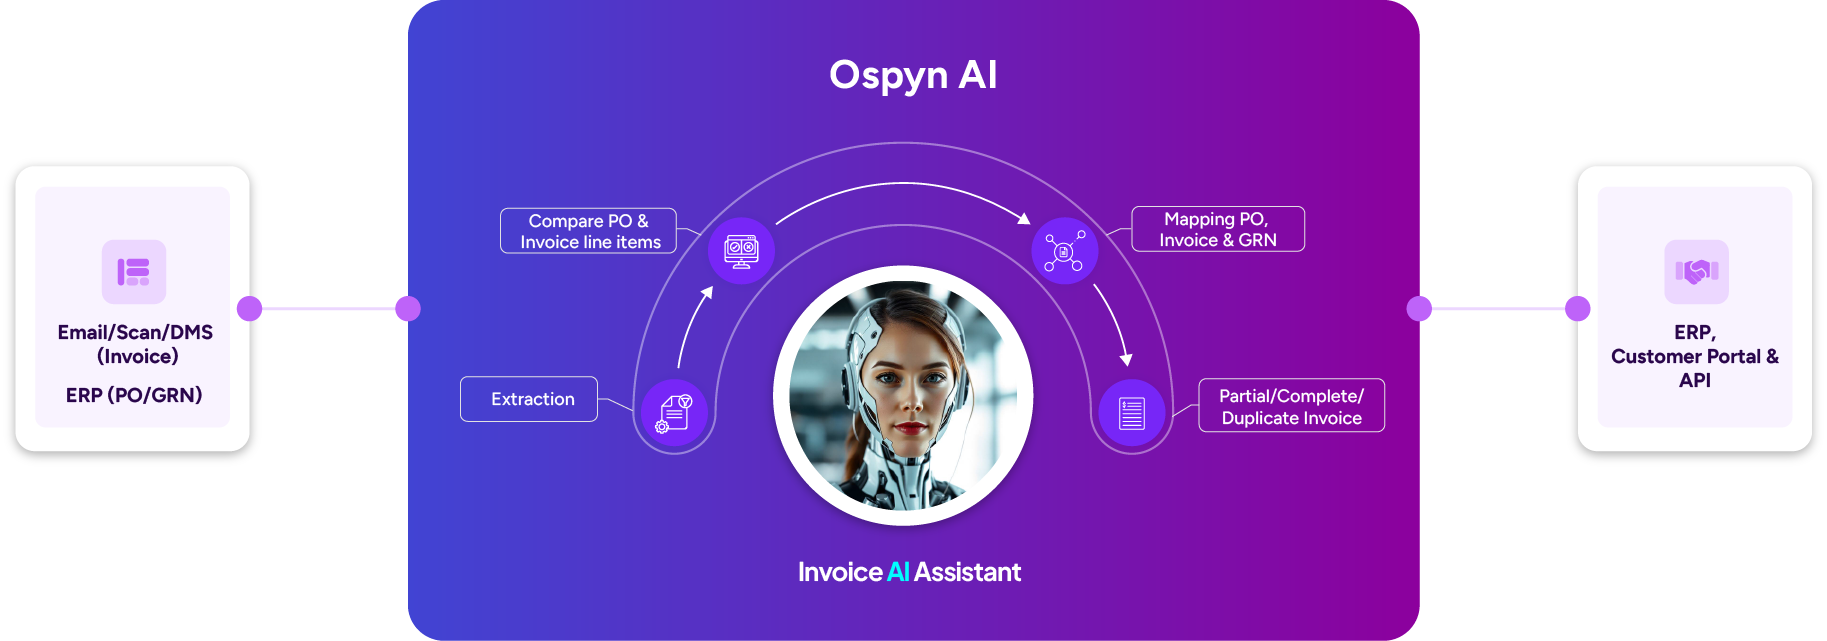
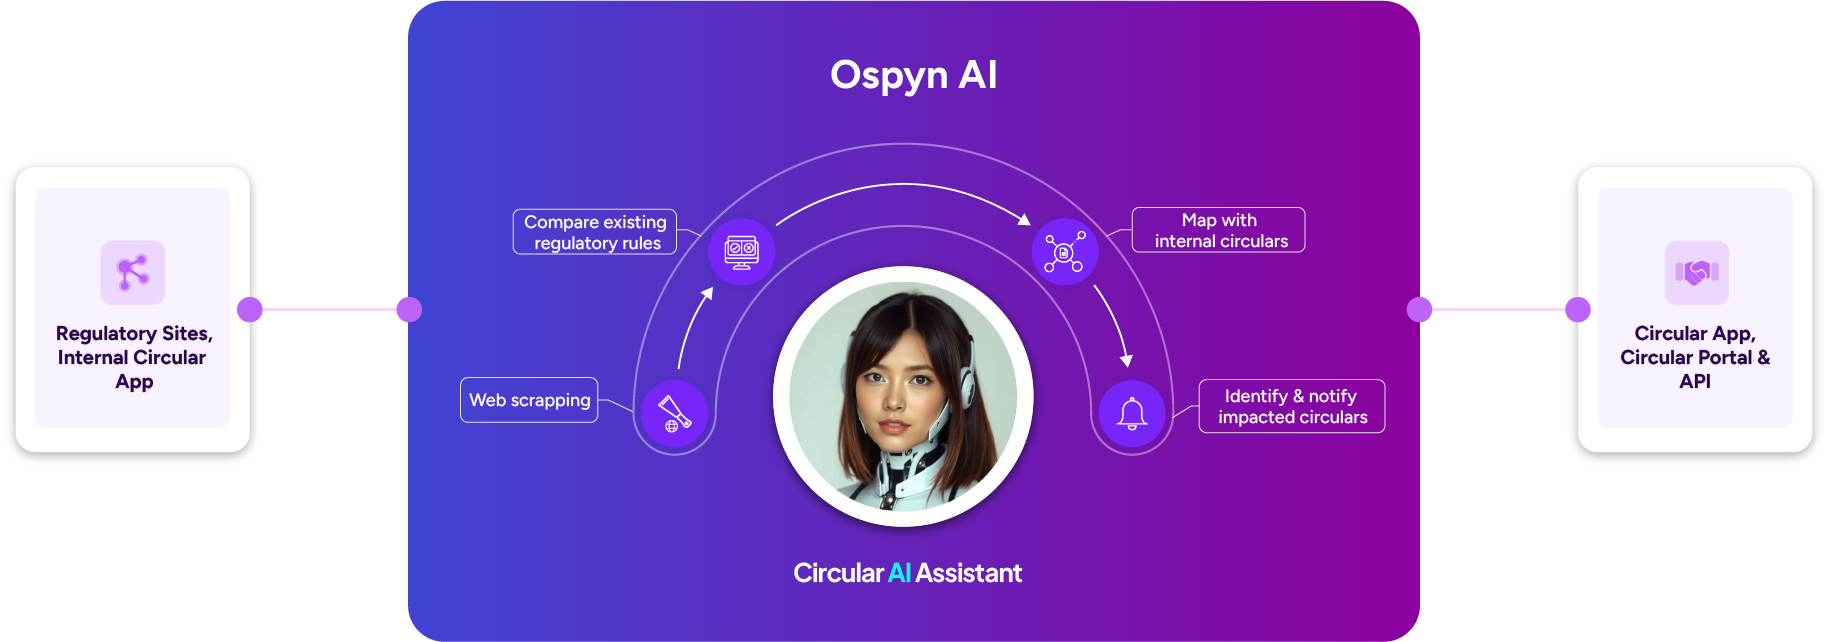
UI Fixes

diff --git a/src/components/newnavbar.jsx b/src/components/newnavbar.jsx
@@ -55,12 +55,12 @@ const NewNavbar = ({ useCaseRef, anlyticViewRef, newAutomationRef }) => {
 
   return (
     <motion.nav
-      className="bg-white  fixed w-full z-20 transition-transform"
+      className="bg-white 0  fixed w-full z-20 transition-transform"
       initial={{ y: 0 }}
       animate={{ y: isVisible ? 0 : '-100%' }}
       transition={{ duration: 0.3 }}
     >
-      <div className="container mx-auto px-4 flex items-center justify-between py-4">
+      <div className="w-full lg:px-10 px-4 mx-auto  flex items-center justify-between py-4">
         <div className="text-2xl font-bold text-blue-600">
           <a href="/">
             <img src={OspynAILogoPNGFile} alt="Logo" className="h-8" />

diff --git a/src/components/NewAutomation.jsx b/src/components/NewAutomation.jsx
@@ -38,7 +38,7 @@ const NewAutomation = () => {
         {
             title: 'AI Powered Central Bank Circular/Compliance Mapping',
             content: 'AI-powered tool maps Central Bank updates, ensuring internal circulars stay updated.',
-            image: Diagram3,
+            image: Newdiagram3,
             demoText: (
                 <>
                     "Keeping track of every update from the RBI is both critical and risky. <strong>Ospyn AI</strong> plays a crucial role by saving <strong>50%</strong> of the time spent reviewing and checking RBI guidelines through AI-powered mapping, resulting in savings of up to <strong>0.90 million USD</strong> annually"

diff --git a/src/components/analyticsNew.jsx b/src/components/analyticsNew.jsx
@@ -22,7 +22,7 @@ const AnalyticsNew = () => {
       </div>
 
       {/* main block */}
-      <div className=" xl:w-[1370px]  flex items-center justify-center relative">
+      <div className=" xl:w-[1350px]  flex items-center justify-center relative">
         <div className="flex items-center justify-center">
           <img className="bg-green-30  xl:w-3/4 z-10" src={mainblock} alt="" />
 
